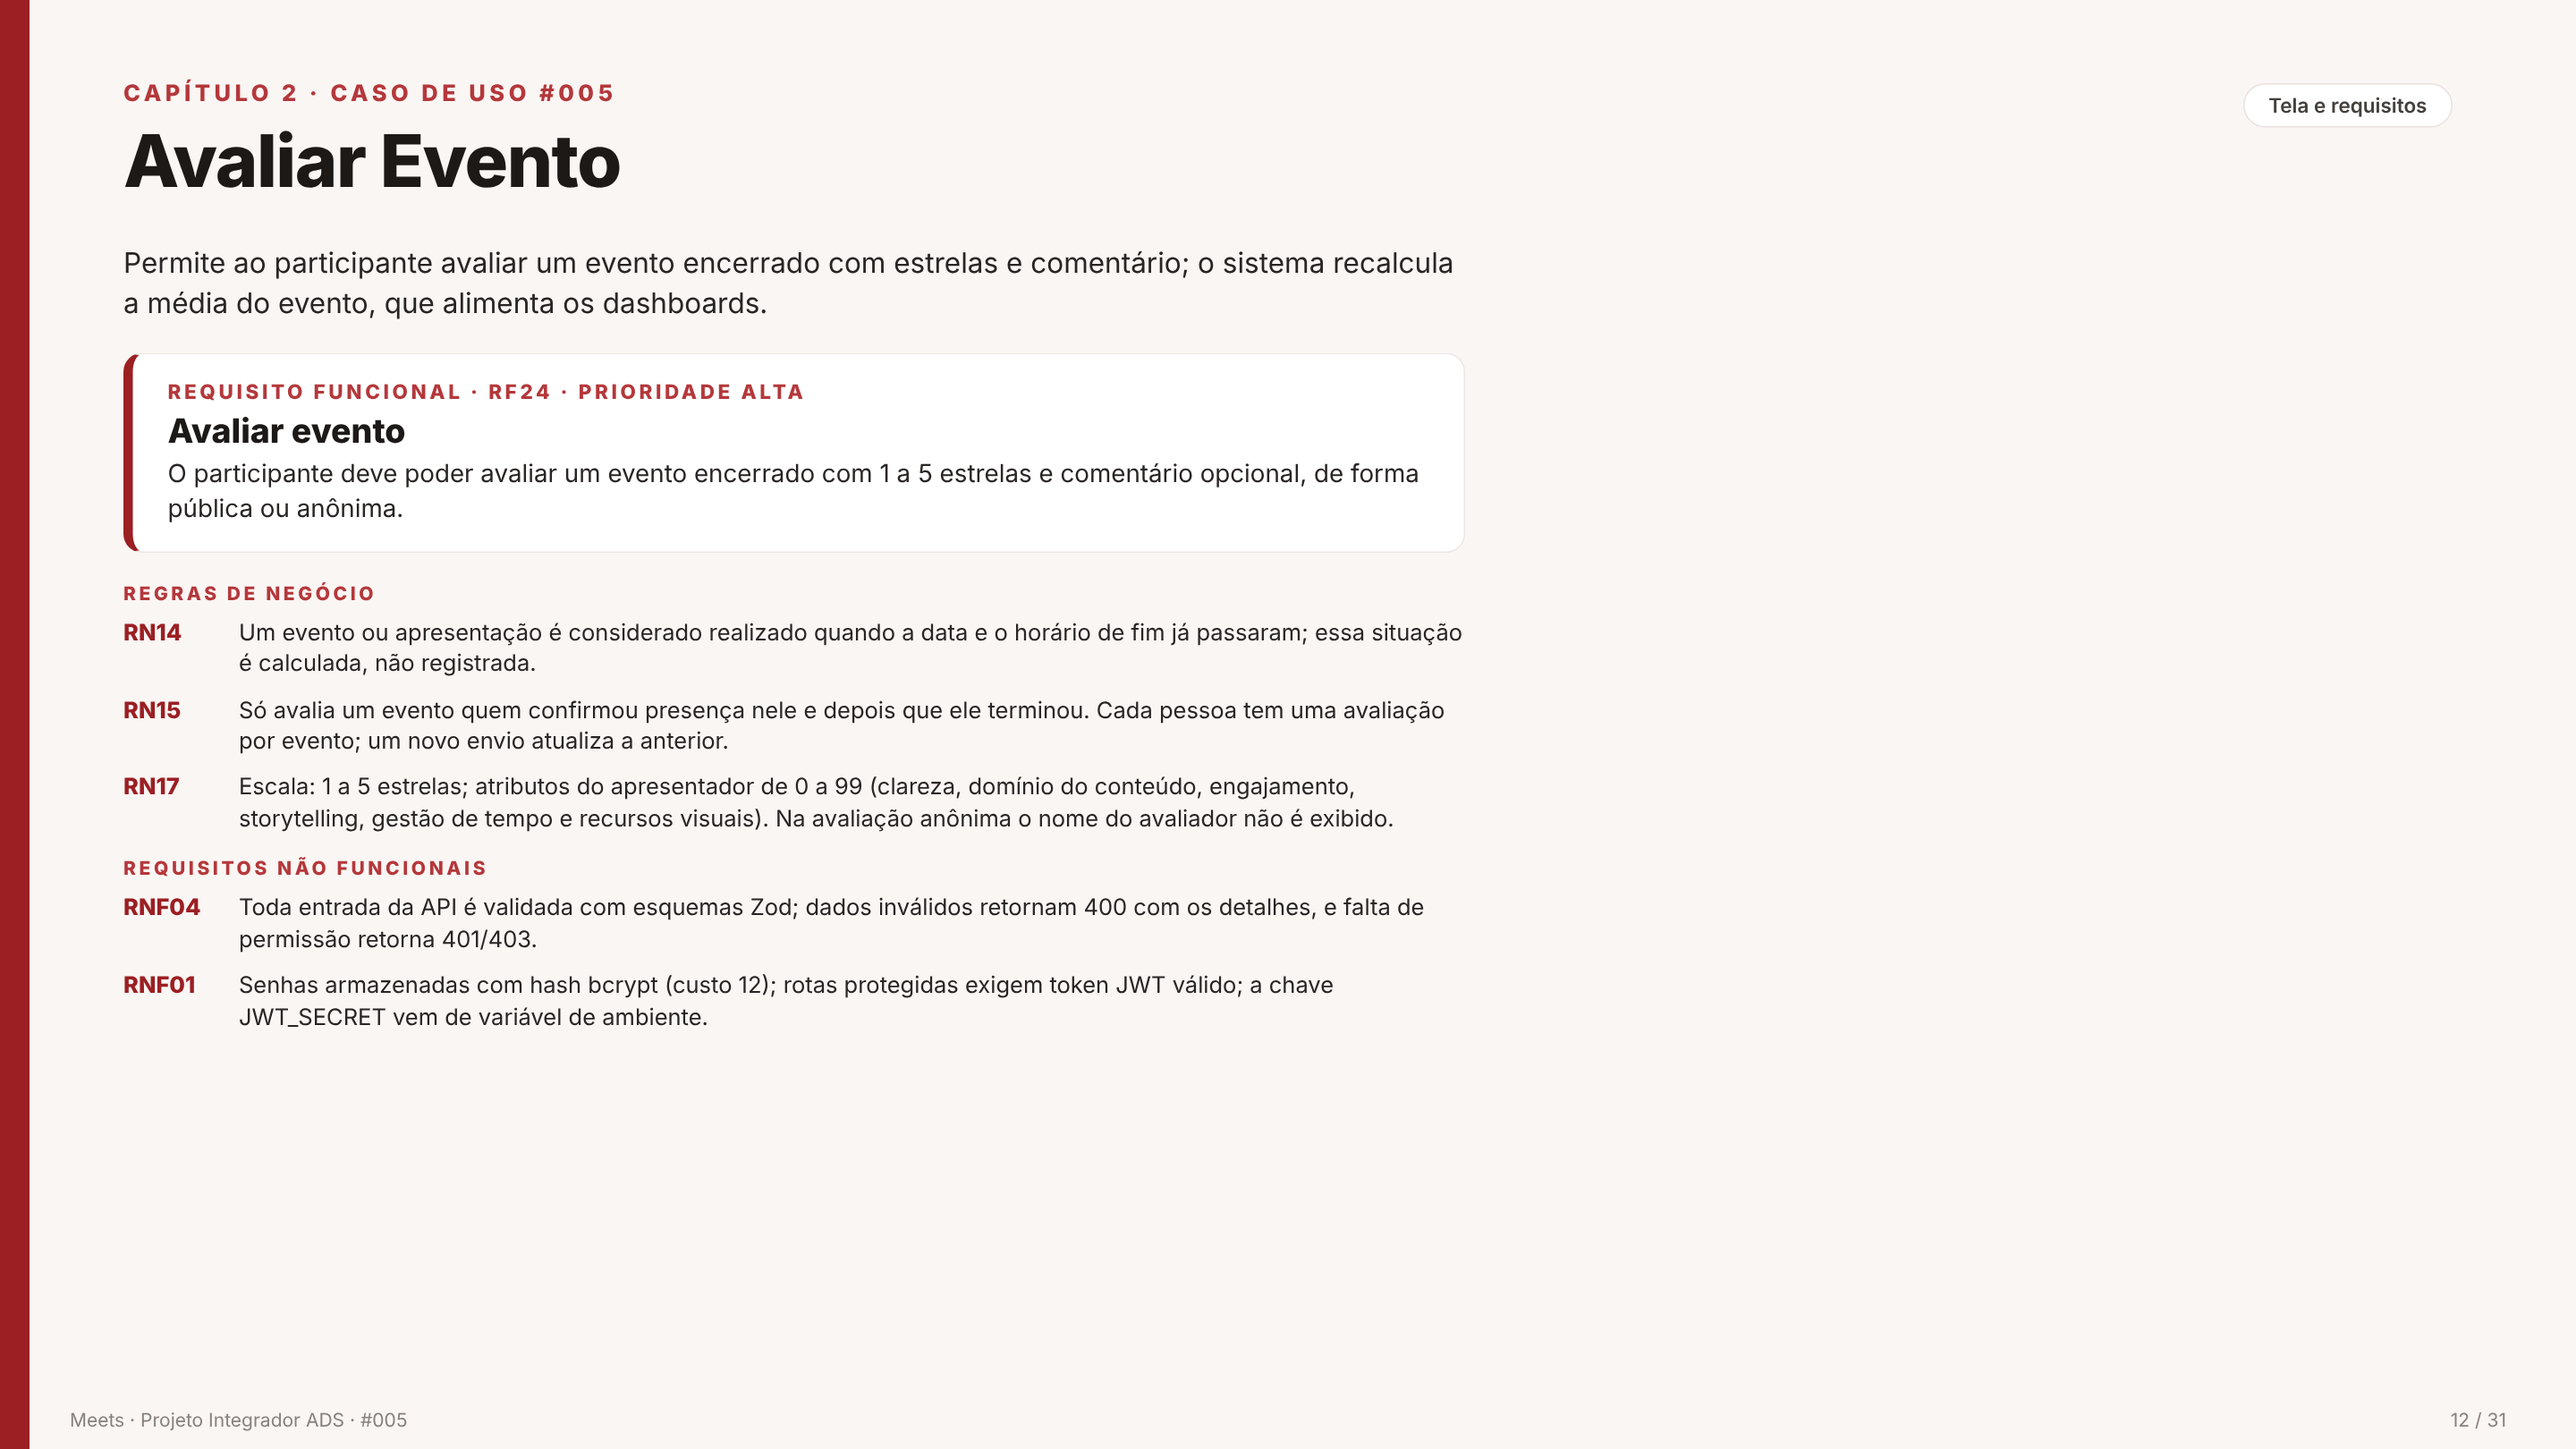
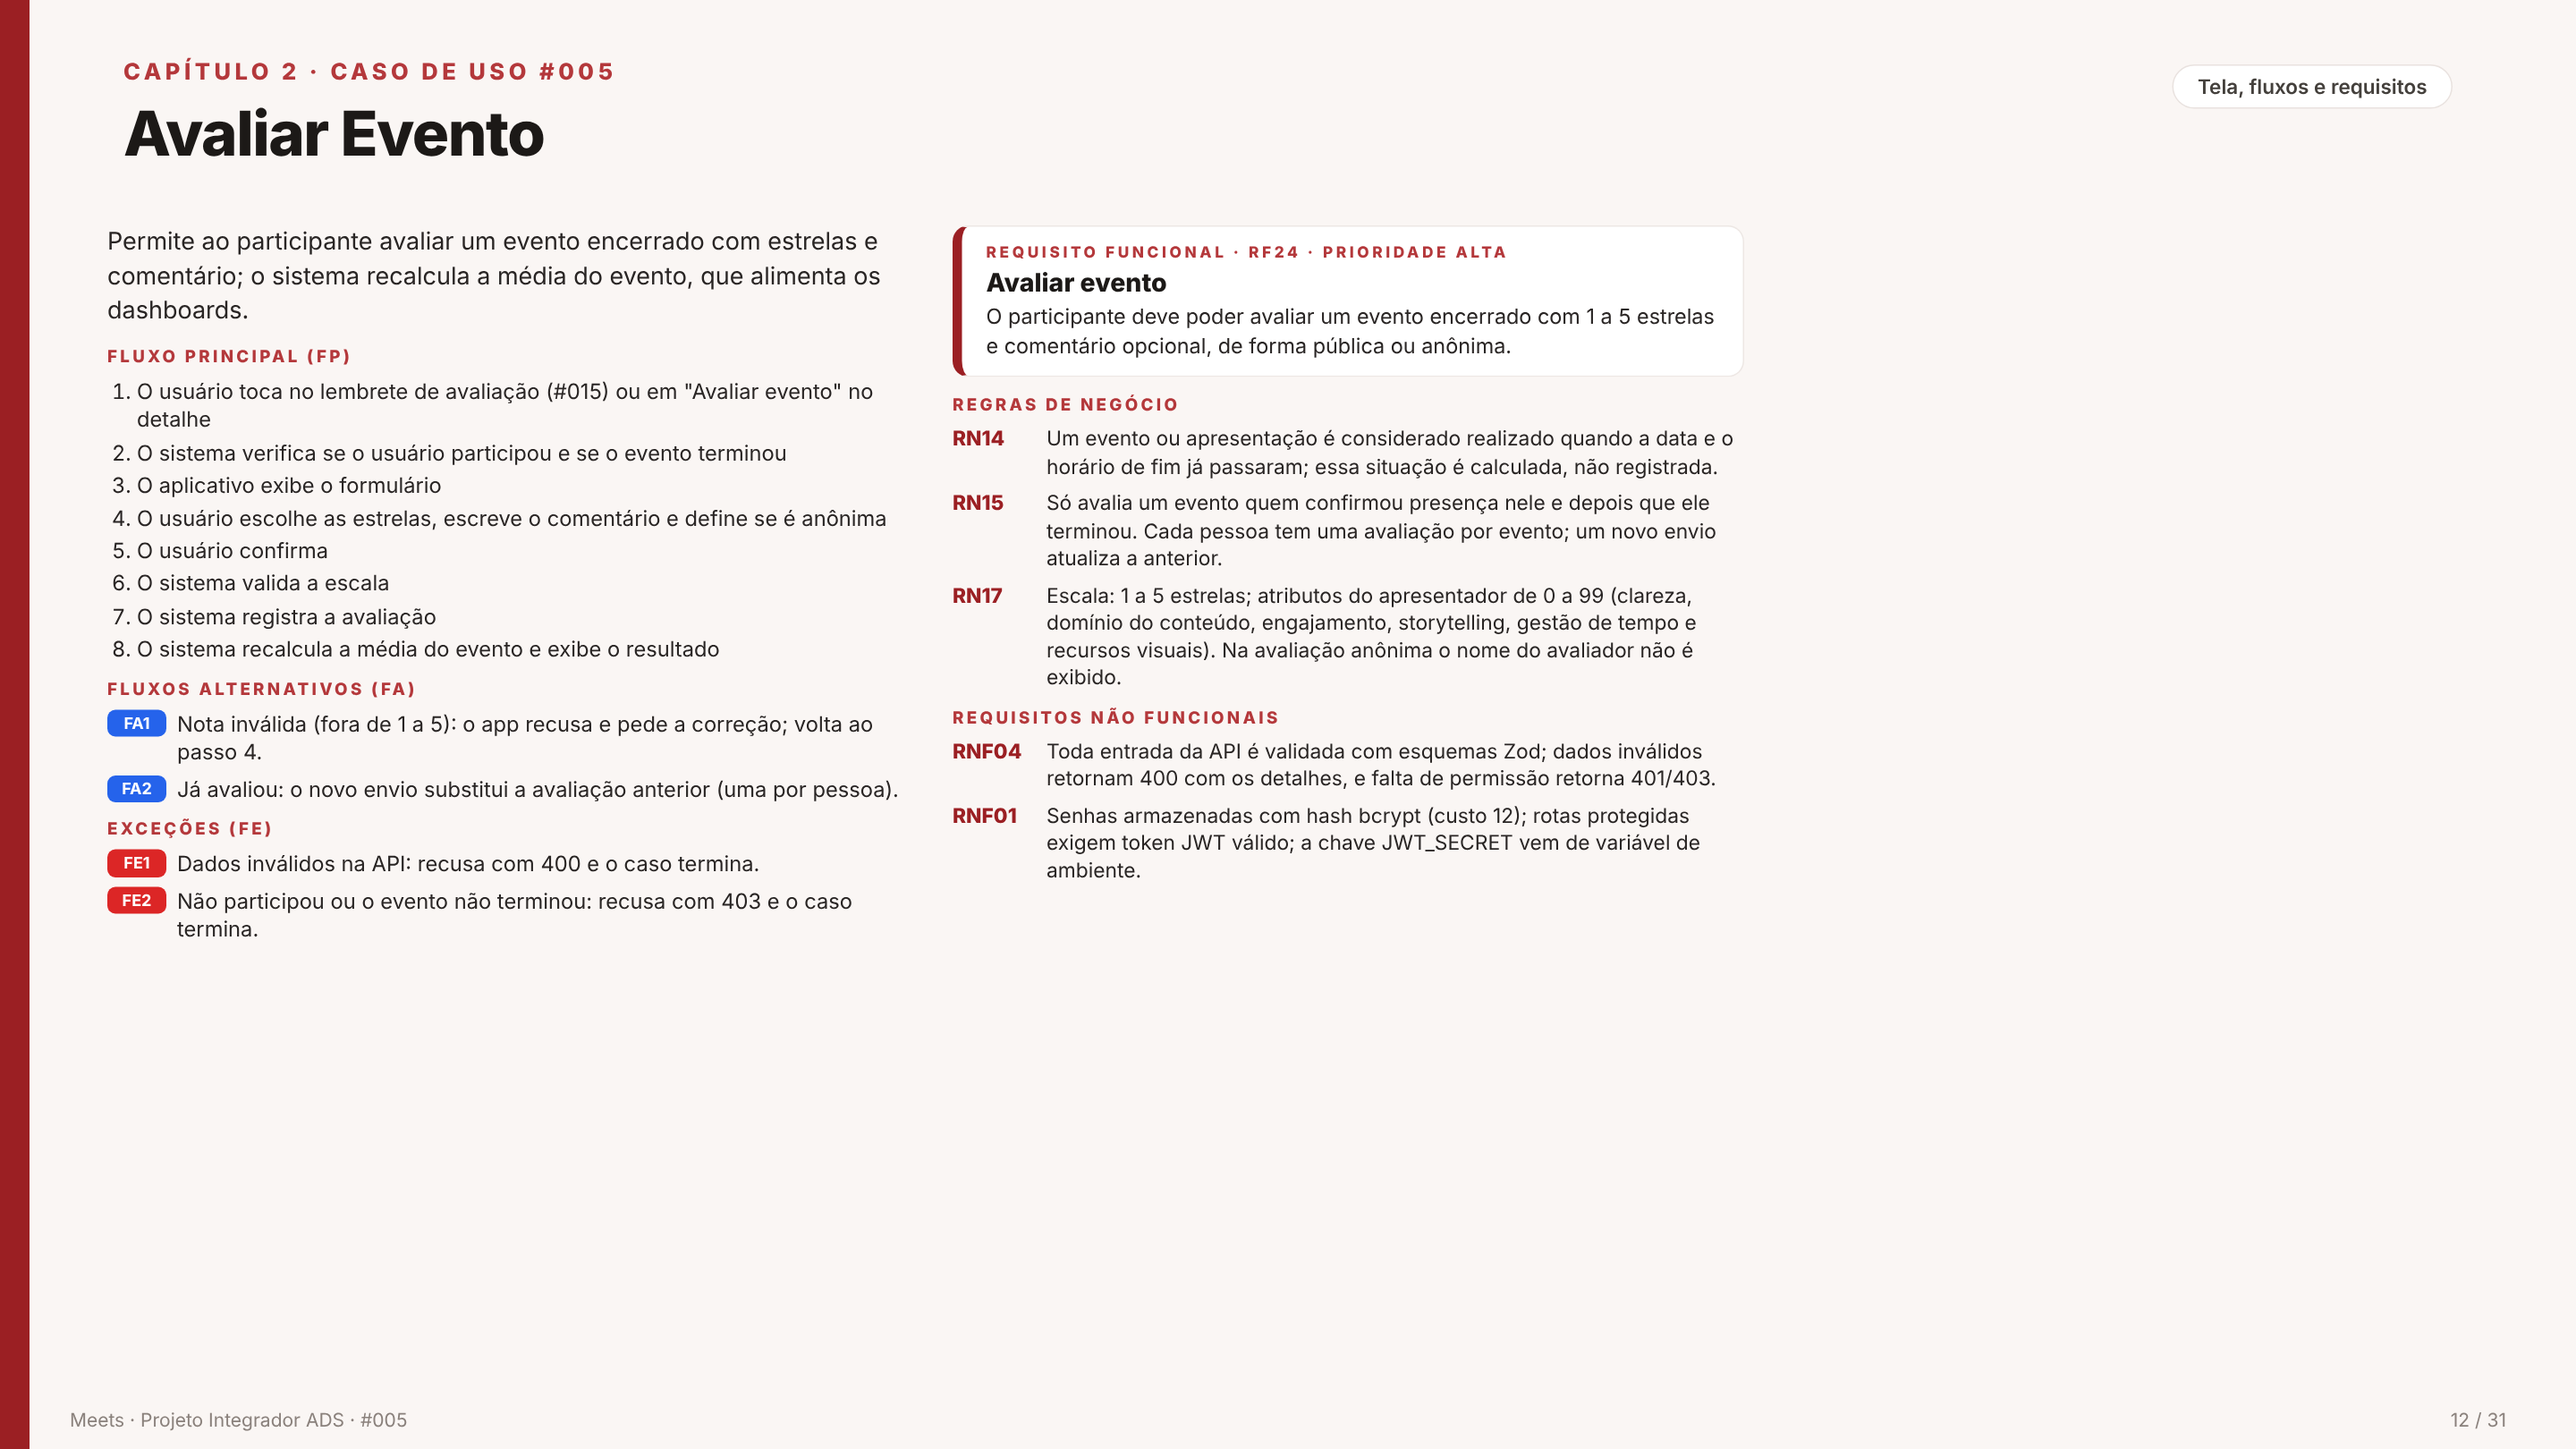
docs: fluxo principal, alternativos e exceções no 1º slide de cada caso de uso
Claude-Session: https://claude.ai/code/session_01AHQD8DPcwLpfBzcy6fhEdc

diff --git a/Documentação/Documentos Meets/diagramas_LES/apresentacao/slides/gerar_padrao.py b/Documentação/Documentos Meets/diagramas_LES/apresentacao/slides/gerar_padrao.py
@@ -17,6 +17,7 @@ from PIL import Image
 import gerar_slides as g
 from codigo import CODIGO
 from codigo_curto import CURTO
+from fluxos import FLUXOS
 
 TOTAL = 31
 g.TOTAL = TOTAL
@@ -38,14 +39,21 @@ ARQ = {
 UM_CELULAR = {'#015', '#007'}
 
 CSS = g.CSS + """
-.lado { position: absolute; left: 92px; top: 182px; width: 1000px; }
-.lado .desc { font-size: 21px; line-height: 1.45; color: #292524; margin-bottom: 20px; }
-.lado .rf { position: static; padding: 18px 26px; border-radius: 14px; margin-bottom: 22px; }
-.lado .rf h2 { font-size: 25px; margin: 6px 0 4px; }
-.lado .rf p { font-size: 18.5px; line-height: 1.4; }
-.lado h3 { font-size: 14px; font-weight: 800; letter-spacing: 2.4px; color: #b4383b; margin: 0 0 10px; }
-.lado .item { grid-template-columns: 76px 1fr; gap: 10px; margin-bottom: 11px; font-size: 17px; line-height: 1.38; }
-.lado .bloco { margin-bottom: 16px; }
+.lado { position: absolute; left: 80px; top: 168px; width: 600px; }
+.lado2 { position: absolute; left: 710px; top: 168px; width: 590px; }
+.desc { font-size: 18px; line-height: 1.42; color: #292524; margin-bottom: 14px; }
+.lado h3, .lado2 h3 { font-size: 12.5px; font-weight: 800; letter-spacing: 2.2px; color: #b4383b; margin: 0 0 7px; }
+.fp { margin: 0 0 12px 0; padding-left: 22px; font-size: 15.8px; line-height: 1.36; color: #292524; }
+.fp li { margin-bottom: 3px; }
+.fl { display: grid; grid-template-columns: 44px 1fr; gap: 8px; margin-bottom: 6px; font-size: 15.8px; line-height: 1.36; color: #292524; }
+.fl b { color: #fff; background: #2563eb; border-radius: 6px; text-align: center; font-size: 12px; padding: 2px 0; height: fit-content; }
+.fl.fe b { background: #dc2626; }
+.lado2 .rf { position: static; padding: 12px 18px; border-radius: 12px; margin-bottom: 14px; }
+.lado2 .rf .k { font-size: 11.5px; }
+.lado2 .rf h2 { font-size: 19px; margin: 4px 0 3px; }
+.lado2 .rf p { font-size: 15.6px; line-height: 1.38; }
+.lado2 .item { grid-template-columns: 62px 1fr; gap: 8px; margin-bottom: 7px; font-size: 15.2px; line-height: 1.35; }
+.bloco { margin-bottom: 12px; }
 .par { position: absolute; left: 52px; right: 52px; top: 82px; bottom: 44px; display: flex; gap: 22px; }
 .par.col { flex-direction: column; }
 .cel { flex: 1; min-width: 0; min-height: 0; background: #fff; border: 1px solid #ede7e4; border-radius: 18px;
@@ -85,10 +93,18 @@ def slide_a(n, caso):
     desc = UC_ID[caso]['descricao']
     itens_rn = ''.join(f'<div class="item"><b>{r}</b><span>{html.escape(g.RN_ID[r][1])}</span></div>' for r in rns)
     itens_rnf = ''.join(f'<div class="item"><b>{r}</b><span>{html.escape(g.RNF_ID[r][3])}</span></div>' for r in rnfs)
-    corpo = (f'<div class="cab2"><div class="kicker">Capítulo {num} · Caso de uso {caso}</div>'
-             f'<div class="titulo">{html.escape(nome)}</div></div><div class="selo selo2">Tela e requisitos</div>'
+    fl = FLUXOS[caso]
+    fp = ''.join(f'<li>{html.escape(p.rstrip(";."))}</li>' for p in UC_ID[caso]['fluxo'])
+    fa = ''.join(f'<div class="fl"><b>{k}</b><span>{html.escape(t)}</span></div>' for k, t in fl['fa'])
+    fe = ''.join(f'<div class="fl fe"><b>{k}</b><span>{html.escape(t)}</span></div>' for k, t in fl['fe'])
+    corpo = (f'<div class="cab2" style="top:44px"><div class="kicker">Capítulo {num} · Caso de uso {caso}</div>'
+             f'<div class="titulo" style="font-size:46px">{html.escape(nome)}</div></div>'
+             f'<div class="selo selo2" style="top:48px">Tela, fluxos e requisitos</div>'
              f'<div class="lado"><div class="desc">{html.escape(desc)}</div>'
-             f'<div class="rf"><div class="k">REQUISITO FUNCIONAL · {rf_id} · PRIORIDADE {prio.upper()}</div>'
+             f'<h3>FLUXO PRINCIPAL (FP)</h3><ol class="fp">{fp}</ol>'
+             f'<h3>FLUXOS ALTERNATIVOS (FA)</h3><div class="bloco">{fa}</div>'
+             f'<h3>EXCEÇÕES (FE)</h3><div class="bloco">{fe}</div></div>'
+             f'<div class="lado2"><div class="rf"><div class="k">REQUISITO FUNCIONAL · {rf_id} · PRIORIDADE {prio.upper()}</div>'
              f'<h2>{html.escape(rf_nome)}</h2><p>{html.escape(esp)}</p></div>'
              f'<div class="bloco"><h3>REGRAS DE NEGÓCIO</h3>{itens_rn}</div>'
              f'<div class="bloco"><h3>REQUISITOS NÃO FUNCIONAIS</h3>{itens_rnf}</div></div>')

diff --git a/Documentação/Documentos Meets/diagramas_LES/apresentacao/slides/fluxos.py b/Documentação/Documentos Meets/diagramas_LES/apresentacao/slides/fluxos.py
@@ -1,0 +1,37 @@
+"""Fluxo principal (FP), alternativos (FA) e exceções (FE) de cada caso, para o 1º slide.
+FP vem da especificação (gerador/casos_de_uso.py); FA = desvio que volta ao fluxo ou termina bem;
+FE = erro que encerra o caso. A numeração FA/FE é a mesma usada nos diagramas de sequência."""
+
+FLUXOS = {
+    '#015': {
+        'fa': [('FA1', 'Lembrete já enviado ou notificações desligadas: o participante é ignorado (sem duplicidade).'),
+               ('FA2', 'Garantia ao consultar: ao abrir as notificações, o sistema repete a verificação e cria o lembrete que faltar.')],
+        'fe': [('FE1', 'Falha na rotina (erro de banco): o erro vai para o log e a rotina tenta de novo no minuto seguinte.')],
+    },
+    '#005': {
+        'fa': [('FA1', 'Nota inválida (fora de 1 a 5): o app recusa e pede a correção; volta ao passo 4.'),
+               ('FA2', 'Já avaliou: o novo envio substitui a avaliação anterior (uma por pessoa).')],
+        'fe': [('FE1', 'Dados inválidos na API: recusa com 400 e o caso termina.'),
+               ('FE2', 'Não participou ou o evento não terminou: recusa com 403 e o caso termina.')],
+    },
+    '#006': {
+        'fa': [('FA1', 'Estrelas fora de 1 a 5 ou sem apresentador escolhido: o app pede a correção; volta ao passo 5.'),
+               ('FA2', 'Já avaliou este apresentador: o novo envio substitui a avaliação anterior.')],
+        'fe': [('FE1', 'Sem permissão (não participou, apresentação não terminou, apresentador não vinculado) ou autoavaliação: recusa com 403/400 e o caso termina.')],
+    },
+    '#007': {
+        'fa': [('FA1', 'Sem avaliações no período: o app informa que o ranking ainda não tem dados suficientes.'),
+               ('FA2', 'Trocar período (desde o início, 90 ou 30 dias): o fluxo volta ao passo 2.')],
+        'fe': [('FE1', 'Falha ao consultar a API: o app mostra a mensagem de erro.')],
+    },
+    '#008': {
+        'fa': [('FA1', 'Administrador escolhe a visão da plataforma: entram também os indicadores da comunidade.'),
+               ('FA2', 'Sem dados no período: os painéis mostram zero e a mensagem de vazio.')],
+        'fe': [('FE1', 'Visão da plataforma pedida por quem não é administrador: recusa com 403 (ADMIN_ONLY).')],
+    },
+    '#013': {
+        'fa': [('FA1', 'Improcedente: nenhuma ação de moderação; o conteúdo continua e os denunciantes são avisados.'),
+               ('FA2', 'Remover conteúdo ou desativar a conta: as outras denúncias abertas do mesmo alvo são fechadas juntas.')],
+        'fe': [('FE1', 'Denúncia já decidida (409), procedente sem ação ou ação inválida para o alvo (400): o sistema recusa.')],
+    },
+}
